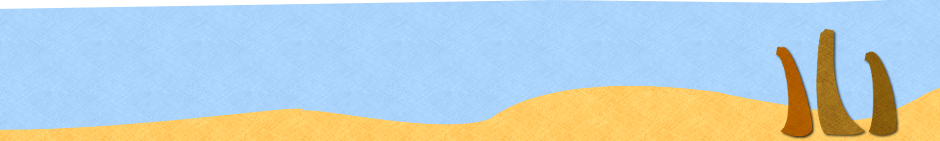
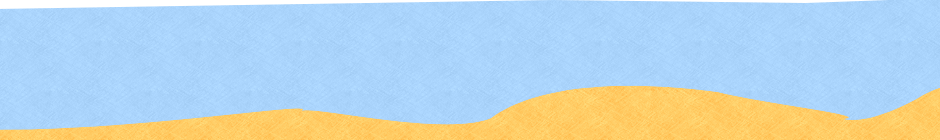
Fix some stuff

diff --git a/web/static/index.html b/web/static/index.html
@@ -14,11 +14,12 @@
 <div class="main">
 
 <div class="header">
-  <img src="images/header.png"/>
+  <img src="images/header.png" style="width:940px;height:140px;"/>
   <div class="prop cloud1"><img src="images/cloud1.png"/></div>
   <div class="prop cloud2"><img src="images/cloud2.png"/></div>
   <div class="prop sun"><img src="images/sun.png"/></div>
   <div class="prop wave"><img src="images/wave.png"/></div>
+  <div class="prop trunks"><img src="images/trees.png"/></div>
   <div class="prop leaf1"><img src="images/leaf1.png"/></div>
   <div class="prop leaf2"><img src="images/leaf2.png"/></div>
   <div class="prop leaf3"><img src="images/leaf3.png"/></div>
@@ -30,9 +31,9 @@
 <div class="pages-container">
 
   <div class="page page-home page-closed page-openable">
-    <a class="page-title-tag" href="#home">Home</a>
     <div class="page-header-container">
       <div class="page-header">
+	<a class="page-title-tag" href="#home">Home</a>
 	<div class="page-header-bg"></div>
         <h1 class="page-title">Welcome!</h1>
       </div>
@@ -45,9 +46,9 @@
   </div>
 
   <div class="page page-settings page-closed page-openable">
-    <a class="page-title-tag" href="#settings">The Setting</a>
     <div class="page-header-container">
       <div class="page-header">
+	<a class="page-title-tag" href="#settings">The Setting</a>
 	<div class="page-header-bg"></div>
         <h1 class="page-title">The Setting</h1>
       </div>
@@ -60,9 +61,9 @@
   </div>
 
   <div class="page page-closed page-plot page-openable">
-    <a class="page-title-tag" href="#plot">The Story</a>
     <div class="page-header-container">
       <div class="page-header">
+	<a class="page-title-tag" href="#plot">The Story</a>
 	<div class="page-header-bg"></div>
         <h1 class="page-title">The Story</h1>
       </div>
@@ -91,9 +92,9 @@ In the fall of 2005, Mel and Chung's paths collided again when fate threw Mel an
   </div>
 
   <div class="page page-closed page-cast page-openable">
-    <a class="page-title-tag" href="#cast">The Cast</a>
     <div class="page-header-container">
       <div class="page-header">
+	<a class="page-title-tag" href="#cast">The Cast</a>
 	<div class="page-header-bg"></div>
         <h1 class="page-title">The Cast</h1>
       </div>
@@ -106,9 +107,9 @@ In the fall of 2005, Mel and Chung's paths collided again when fate threw Mel an
   </div>
 
   <div class="page page-closed page-openable page-trailer">
-    <a class="page-title-tag" href="#trailer">Trailer</a>
     <div class="page-header-container">
       <div class="page-header">
+	<a class="page-title-tag" href="#trailer">Trailer</a>
 	<div class="page-header-bg"></div>
         <h1 class="page-title">Trailer</h1>
       </div>
@@ -123,9 +124,9 @@ In the fall of 2005, Mel and Chung's paths collided again when fate threw Mel an
   </div>
 
   <div class="page page-closed page-openable page-rsvp">
-    <a class="page-title-tag" href="#rsvp">RSVP<br/>Tickets</a>
     <div class="page-header-container">
       <div class="page-header">
+	<a class="page-title-tag" href="#rsvp">RSVP<br/>Tickets</a>
 	<div class="page-header-bg"></div>
         <h1 class="page-title">RSVP Tickets</h1>
       </div>
@@ -138,9 +139,9 @@ In the fall of 2005, Mel and Chung's paths collided again when fate threw Mel an
   </div>
 
   <div class="page page-closed page-openable page-extras">
-    <a class="page-title-tag" href="#extras">Extras</a>
     <div class="page-header-container">
       <div class="page-header">
+	<a class="page-title-tag" href="#extras">Extras</a>
 	<div class="page-header-bg"></div>
         <h1 class="page-title">Extras</h1>
       </div>
@@ -175,8 +176,8 @@ $(function() {
 
   fillStack();
 
-  animateStraight(".header .cloud1", 1000000, {left: "-100px"}, {left: "1000px"}, "linear");
-  animateStraight(".header .cloud2", 1000000, {left: "1000px"}, {left: "-100px"}, "linear");
+  animateCycle(".header .cloud1", 100000, {left: "0px"}, {left: "800px"}, "linear");
+  animateCycle(".header .cloud2", 100000, {left: "800px"}, {left: "0px"}, "linear");
   animateClasses(".header .sun", 10000, "sun-start", "sun-end");
   animateClasses(".header .wave", 10000, "wave-start", "wave-end");
   animateClasses(".header .leaf1", 4000, "leaf-start", "leaf-end");

diff --git a/web/static/css/main.css b/web/static/css/main.css
@@ -1,6 +1,6 @@
 html,body {
   font-family: Coustard, serif;
-  font-size: 17px;
+  font-size: 15px;
   margin: 0;
   padding: 0;
   color: #333;
@@ -28,10 +28,11 @@ body {
 .sand-background {
   background-image: url('../images/sand.jpg');
   background-repeat: repeat;
-  height: 1000px;
+  height: 800px;
   position: absolute;
   width: 940px;
   padding-bottom: 30px;
+  z-index: -1;
 }
 
 h1, h2 {
@@ -138,6 +139,11 @@ img.crane {
   top: 20px;
 }
 
+.header .trunks {
+  left: 774px; 
+  top: 27px;
+}
+
 /* Pages */
 .pages-container {
   width: 940px;
@@ -169,7 +175,7 @@ img.crane {
   position: absolute;
   top: 0; left: 0; right: 0; bottom: 0;
   z-index: -1;
-  opacity: 0.6;
+  opacity: 0.7;
 }
 
 .page-home .page-header-bg { background-image: url('../images/paper1b.jpg'); background-position: 0px -710px;}
@@ -237,10 +243,6 @@ img.crane {
   -moz-box-shadow: 2px 2px 8px #222;
   padding: 35px;
   z-index: 10;
-  -webkit-transform: rotate3d(1, 0, 0, 5deg);
-  -webkit-transform-origin: 0 0;
-  -moz-transform: rotate3d(1, 0, 0, 5deg);
-  -moz-transform-origin: 0 0;
 }
 
 .page-content-container {

diff --git a/web/static/js/main.js b/web/static/js/main.js
@@ -48,7 +48,7 @@ function openPage($page) {
   $toClose.removeClass("page-opened").addClass("page-closed");
   $(".page-content", $toClose).slideUp();
   $page.addClass("page-opened").removeClass("page-closed");
-  $(".sand-background").css("height", $page.outerHeight() + "px");
+  //$(".sand-background").css("height", $page.outerHeight() + "px");
   $(".page-content", $page).slideDown();
 }
 
@@ -65,7 +65,7 @@ function fillStack() {
     "images/paper7b.jpg"
   ];
   var lastTop = 0;
-  for (var i = 0; i < 50; i++) {
+  for (var i = 0; i < 10; i++) {
     var $page = $("<div/>").addClass("page page-closed").css(
       {
 	top: lastTop - 5 + Math.random() * 10 + "px",
